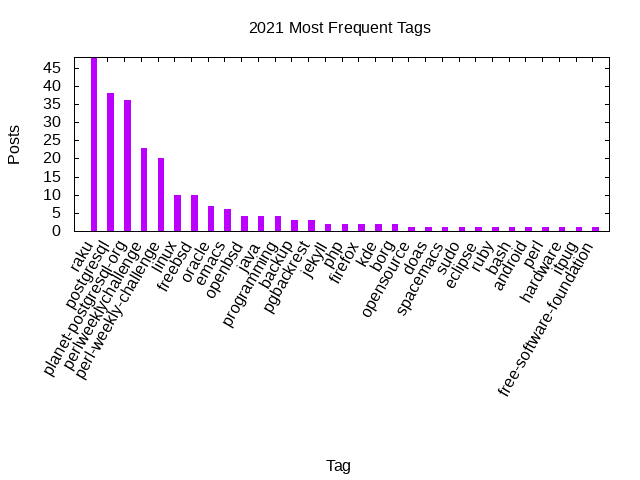
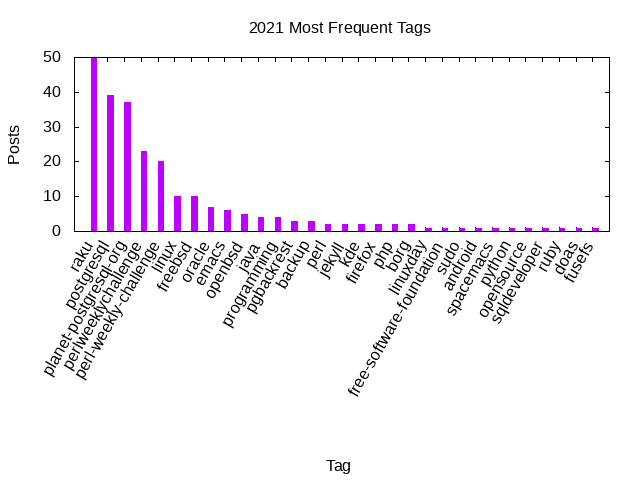
Stats update

diff --git a/_includes/stats/2021.md b/_includes/stats/2021.md
@@ -1,41 +1,41 @@
 <a name="2021" />
 ## 2021 (work in progress)
 
-**114 total posts** have been written on 2021.
+**116 total posts** have been written on 2021.
 There have been *40 different tags* used, the most
 popular being (sorted by number of posts):
  
-- *raku* (48 posts)  
-- *postgresql* (38 posts)  
-- *planet-postgresql-org* (36 posts)  
+- *raku* (50 posts)  
+- *postgresql* (39 posts)  
+- *planet-postgresql-org* (37 posts)  
 - *perlweeklychallenge* (23 posts)  
 - *perl-weekly-challenge* (20 posts)  
 - *linux* (10 posts)  
 - *freebsd* (10 posts)  
 - *oracle* (7 posts)  
 - *emacs* (6 posts)  
-- *openbsd* (4 posts)  
+- *openbsd* (5 posts)  
 - *java* (4 posts)  
 - *programming* (4 posts)  
-- *backup* (3 posts)  
 - *pgbackrest* (3 posts)  
+- *backup* (3 posts)  
+- *perl* (2 posts)  
 - *jekyll* (2 posts)  
-- *php* (2 posts)  
-- *firefox* (2 posts)  
 - *kde* (2 posts)  
+- *firefox* (2 posts)  
+- *php* (2 posts)  
 - *borg* (2 posts)  
-- *opensource* (1 posts)  
-- *doas* (1 posts)  
-- *spacemacs* (1 posts)  
+- *linuxday* (1 posts)  
+- *free-software-foundation* (1 posts)  
 - *sudo* (1 posts)  
-- *eclipse* (1 posts)  
-- *ruby* (1 posts)  
-- *bash* (1 posts)  
 - *android* (1 posts)  
-- *perl* (1 posts)  
-- *hardware* (1 posts)  
-- *itpug* (1 posts)  
-- *free-software-foundation* (1 posts).<br/>
+- *spacemacs* (1 posts)  
+- *python* (1 posts)  
+- *opensource* (1 posts)  
+- *sqldeveloper* (1 posts)  
+- *ruby* (1 posts)  
+- *doas* (1 posts)  
+- *fusefs* (1 posts).<br/>
 <br/>
 The following is the overall 2021 post ratio by month:
 <br/>
@@ -54,7 +54,7 @@ The following is the overall 2021 post ratio by tag (showing max 30 tags):
 
 <div align="right">
 <small>
-Last generated on 2021-11-08 at 16:48
+Last generated on 2021-11-09 at 11:22
 </small>
 </div>
 
